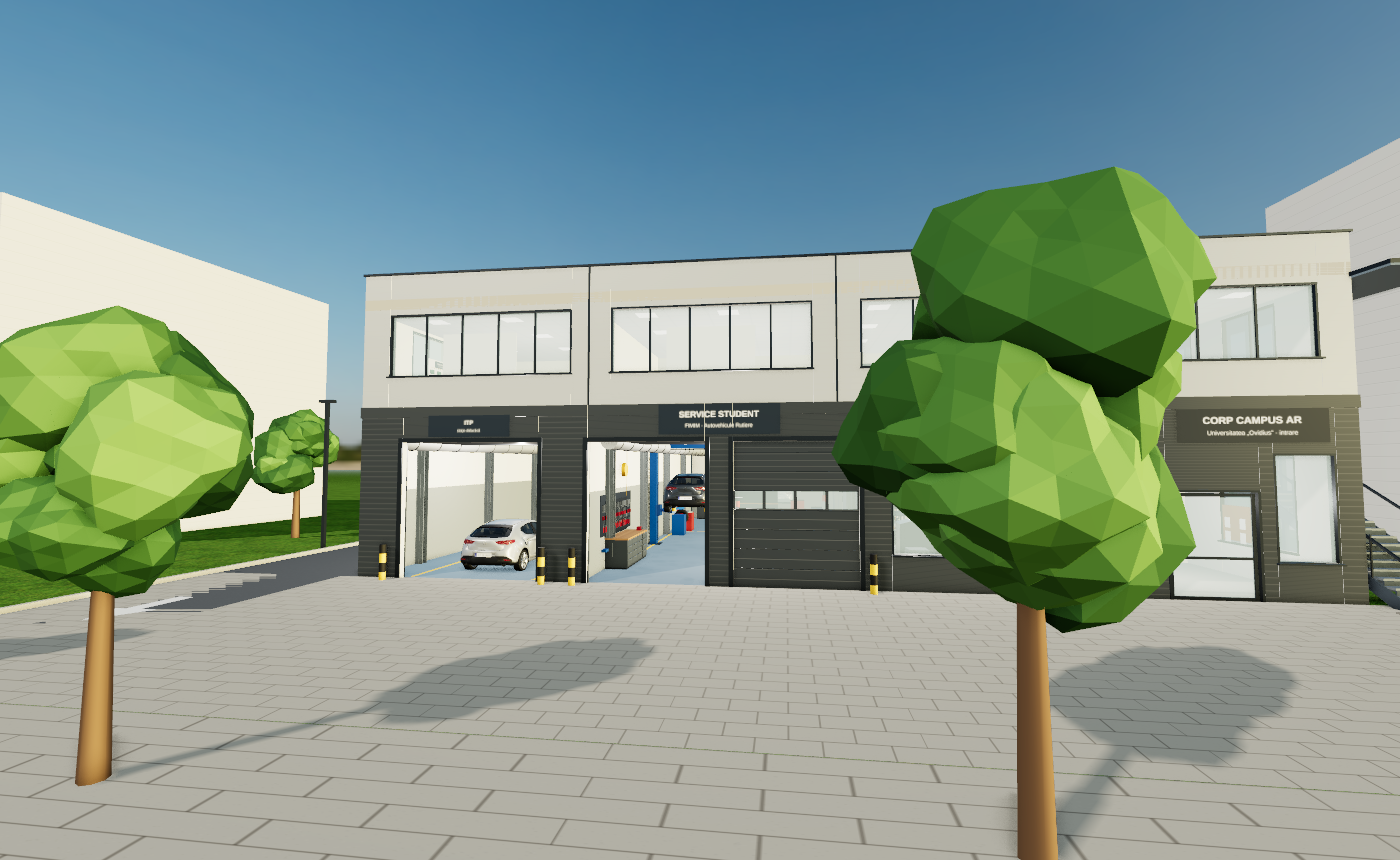
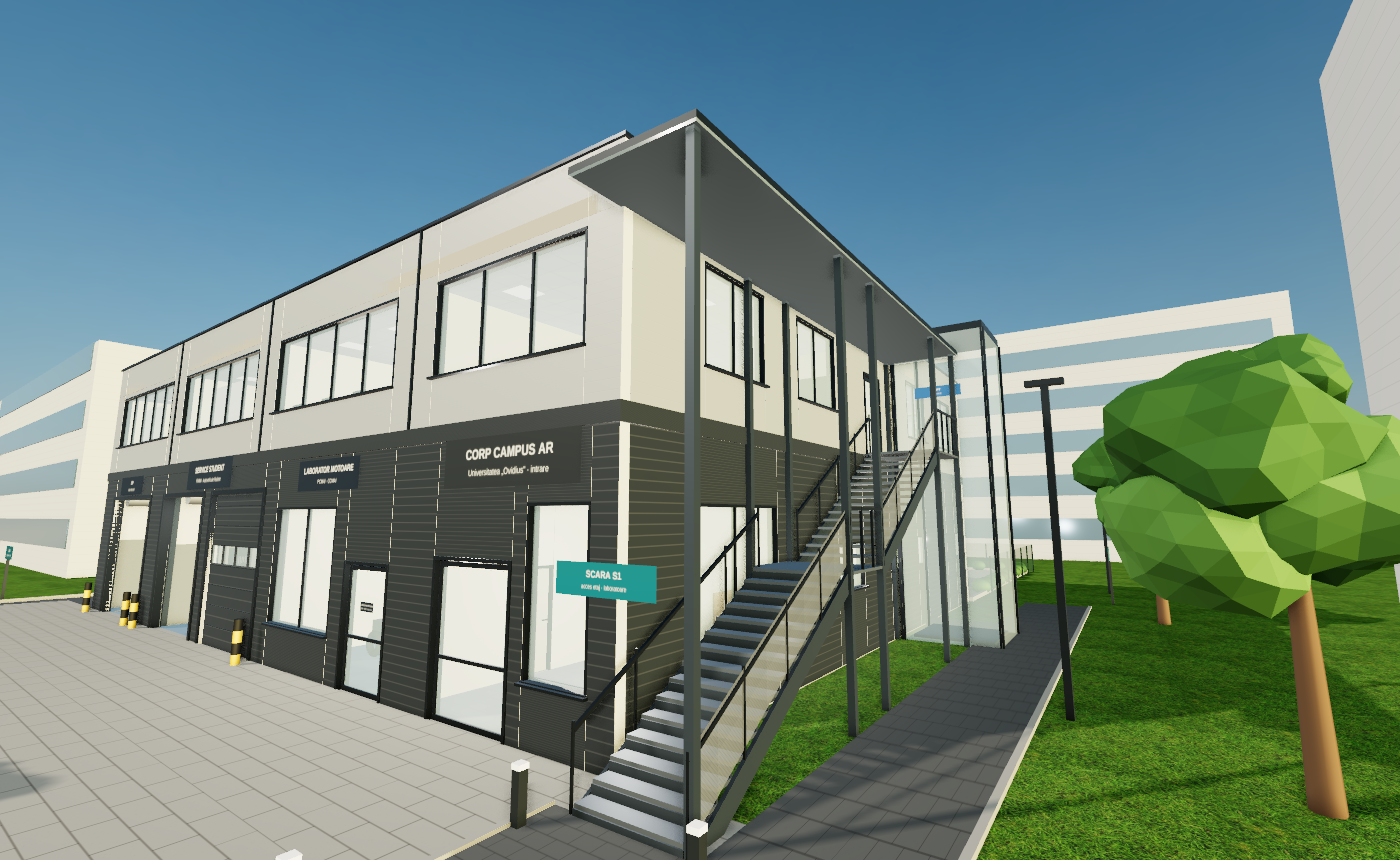
Etapa 3 grafică: Dinamică și exterior după imaginile concept
- E03: punte completă cu roți reale și arcuri coilover, stand pneuri în cușcă de plasă, mașină de încercat amortizoare, raft cu pneuri reale
- scara S1: plasă de protecție pe balustrade
- acoperiș: centrală de tratare a aerului, guri de ventilație

Claude-Session: https://claude.ai/code/session_01TZFbCrNL5Qe3p3aSQB4Bo5

diff --git a/js/equipment.js b/js/equipment.js
@@ -384,42 +384,62 @@ function toolWall(len = 3.0, seed = 1) {
 }
 function laptop(seed = 1) { const g = new THREE.Group(); B(g, 0.34, 0.018, 0.24, C(0x2f3337, { metalness: 0.5 }), 0, 0, 0); const sc = new THREE.Group(); sc.position.set(0, 0.018, -0.12); sc.rotation.x = -0.25; g.add(sc); B(sc, 0.34, 0.22, 0.01, C(0x2f3337, { metalness: 0.5 }), 0, 0, 0); screen(sc, 0.31, 0.19, seed % 2 ? 'diag' : 'code', seed, 0, 0.015, 0.006); return g; }
 // Dinamică – după imaginea concept: punte completă pe platformă (suspensii coilover), cușcă de încercare pneuri, turn de încercare amortizoare
-function halfCarRig() {
-  const g = new THREE.Group();
-  B(g, 2.7, 0.08, 1.7, C(0x5d6a75, { metalness: 0.5 }), 0, 0, 0); for (const z of [-0.6, 0.6]) B(g, 2.5, 0.1, 0.12, C(0x434c55, { metalness: 0.5 }), 0, 0.08, z);
-  B(g, 0.6, 0.25, 0.4, C(0xa3aab0, { metalness: 0.7 }), 0, 0.42, 0);                                // carter diferențial / subcadru
-  for (const z of [-0.25, 0.25]) Cy(g, 0.04, 2.0, MAT.dark, 0, 0.5, z, 'x');
+// roată reală (anvelopă + jantă din aliaj) preluată din modelul 3D al autoturismului; axa roții = axa locală z
+function realWheel(parent, x, y, z, ry = 0, scale = 1) {
+  const g = new THREE.Group(); g.position.set(x, y, z); g.rotation.y = ry; g.scale.setScalar(scale); parent.add(g);
+  CAR_MODEL.then(src => { if (!src) return; const w = src.getObjectByName('wheel_FL'); if (!w) return; const c = w.clone(true); c.position.set(0, 0, 0); c.rotation.set(0, 0, 0); c.traverse(o => { if (o.isMesh) { o.castShadow = true; if (CARMAT[o.material.name]) o.material = CARMAT[o.material.name](); } }); g.add(c); });
+  return g;
+}
+function halfCarRig() {   // punte completă pe platformă de încercări (după imaginea concept „Dinamică”)
+  const g = new THREE.Group(); const fr = C(0x6b747c, { metalness: 0.55, roughness: 0.35 }), dark = C(0x2a2e33, { metalness: 0.5 });
+  B(g, 2.8, 0.06, 1.6, C(0x8a9399, { metalness: 0.5, roughness: 0.4 }), 0, 0, 0);
+  for (const z of [-0.7, 0.7]) B(g, 2.8, 0.12, 0.1, fr, 0, 0.06, z); for (const x of [-1.3, 0, 1.3]) B(g, 0.1, 0.12, 1.5, fr, x, 0.06, 0);
+  B(g, 0.5, 0.22, 0.42, ALU2, 0, 0.36, 0); B(g, 0.9, 0.08, 0.3, dark, 0, 0.3, 0);                   // subcadru + carter
   for (const xs of [-1, 1]) {
-    const t = new THREE.Mesh(new THREE.TorusGeometry(0.25, 0.1, 14, 32), MAT.rubber); t.rotation.y = Math.PI / 2; t.position.set(xs * 1.15, 0.43, 0); t.scale.z = 1.3; g.add(t);
-    Cy(g, 0.21, 0.2, C(0xb9bdc2, { metalness: 0.85, roughness: 0.25 }), xs * 1.15, 0.43, 0, 'x', 24);
-    B(g, 0.35, 0.05, 0.35, C(0x2f3438), xs * 1.15, 0.08, 0);                                         // platformă excitatoare
-    Cy(g, 0.03, 0.55, C(0x1f4fa8), xs * 0.8, 0.75, 0, 'y'); 
-    const sp = new THREE.Mesh(new THREE.TorusGeometry(0.075, 0.012, 6, 16), C(0x1f4fa8)); for (let i = 0; i < 7; i++) { const s2 = sp.clone(); s2.rotation.x = Math.PI / 2; s2.position.set(xs * 0.8, 0.62 + i * 0.05, 0); g.add(s2); }
-    B(g, 0.6, 0.05, 0.08, MAT.dark, xs * 0.55, 0.45, 0.15); B(g, 0.6, 0.05, 0.08, MAT.dark, xs * 0.55, 0.45, -0.15);   // brațe
+    B(g, 0.44, 0.06, 0.44, dark, xs * 1.12, 0.06, 0); Cy(g, 0.06, 0.12, C(0x1f4fa8), xs * 1.12, 0.12, 0);   // platformă excitatoare + actuator
+    realWheel(g, xs * 1.12, 0.33 + 0.18, 0, xs > 0 ? Math.PI / 2 : -Math.PI / 2);
+    Cy(g, 0.06, 0.08, GEARM, xs * 0.98, 0.51, 0, 'x', 18);                                           // butuc / fuzetă
+    tube(g, [xs * 0.95, 0.4, 0.14], [xs * 0.25, 0.36, 0.17], 0.025, dark); tube(g, [xs * 0.95, 0.4, -0.14], [xs * 0.25, 0.36, -0.17], 0.025, dark);   // brațe inferioare
+    tube(g, [xs * 0.95, 0.6, 0], [xs * 0.3, 0.55, 0.12], 0.02, dark);                               // braț superior
+    Cy(g, 0.025, 0.42, C(0x1a1c1f, { metalness: 0.5 }), xs * 0.78, 0.45, 0); Cy(g, 0.012, 0.22, GEARM, xs * 0.78, 0.87, 0);   // amortizor
+    helix(g, 0.06, 0.34, 7, 0.009, C(0x1f4fa8, { metalness: 0.4, roughness: 0.4 }), xs * 0.78, 0.55, 0);   // arc coilover albastru
+    Cy(g, 0.075, 0.02, C(0xb3261e), xs * 0.78, 0.54, 0); Cy(g, 0.075, 0.02, C(0xb3261e), xs * 0.78, 0.9, 0);
+    tube(g, [xs * 0.78, 1.08, 0], [xs * 0.4, 0.62, 0], 0.03, fr);                                   // turn de prindere
   }
-  plate(g, 'Stand suspensie – punte completă', 'excitație verticală · confort · ținută de drum', 0.9, 0, 0.2, 0.86, 0, '#1d2b3a');
+  for (const x of [-0.35, 0.35]) tube(g, [x, 0.62, 0], [x * 2.0, 1.08, 0], 0.03, fr);
+  B(g, 1.7, 0.06, 0.08, fr, 0, 1.08, 0);
+  for (let i = 0; i < 4; i++) tube(g, [-0.2 + i * 0.12, 0.47, 0.18], [-0.6 + i * 0.3, 0.06, 0.75], 0.006, C(0xd32f2f));   // cabluri traductoare
+  plate(g, 'Stand suspensie – punte completă', 'excitație verticală · confort · ținută de drum', 0.9, 0, 0.2, 0.81, 0, '#1d2b3a');
   return g;
 }
-function tireCage() {
-  const g = new THREE.Group(); const blue = C(0x1f3f78, { metalness: 0.3 });
+function tireCage() {   // stand de încercare a pneurilor: dulap albastru pe roți, cușcă din plasă, roată reală
+  const g = new THREE.Group(); const blue = C(0x1f3f78, { metalness: 0.3, roughness: 0.45 }), fr = C(0xc9cdd1, { metalness: 0.75, roughness: 0.3 });
   B(g, 1.2, 0.85, 0.9, blue, 0, 0.12, 0); for (const [x, z] of [[-0.55, -0.4], [0.55, -0.4], [-0.55, 0.4], [0.55, 0.4]]) Cy(g, 0.05, 0.04, MAT.rubber, x, 0.02, z, 'x', 12);
-  B(g, 0.08, 0.08, 0.03, MAT.yellow, 0.4, 0.8, 0.46); Cy(g, 0.03, 0.03, MAT.red, 0.4, 0.84, 0.48, 'z', 16);
-  B(g, 1.25, 0.04, 0.95, MAT.steel, 0, 0.97, 0);
-  const t = new THREE.Mesh(new THREE.TorusGeometry(0.32, 0.13, 16, 36), MAT.rubber); t.rotation.y = Math.PI / 2; t.position.set(-0.15, 1.45, 0); t.scale.z = 1.4; g.add(t);
-  Cy(g, 0.26, 0.24, C(0x9ca3a8, { metalness: 0.8 }), -0.15, 1.45, 0, 'x', 24);
-  const mesh = new THREE.MeshStandardMaterial({ map: T.pegboard([3, 3]), color: 0xd0d4d8, metalness: 0.6, transparent: true, opacity: 0.55, side: THREE.DoubleSide });
-  for (const [w, h, d, x, y, z] of [[1.2, 0.9, 0.01, 0, 1.01, 0.45], [1.2, 0.9, 0.01, 0, 1.01, -0.45], [0.01, 0.9, 0.9, 0.6, 1.01, 0], [0.01, 0.9, 0.9, -0.6, 1.01, 0], [1.2, 0.01, 0.9, 0, 1.9, 0]]) B(g, w, h, d, mesh, x, y, z);
-  for (const [x, z] of [[-0.6, -0.45], [0.6, -0.45], [-0.6, 0.45], [0.6, 0.45]]) B(g, 0.03, 0.92, 0.03, MAT.steel, x, 1.0, z);
-  plate(g, 'Stand încercare pneuri', 'rigiditate · rezistență la rulare', 0.6, 0, 0.55, 0.456, 0, '#1f3f78');
+  for (const [w, h, x, y] of [[0.4, 0.5, -0.3, 0.3], [0.4, 0.5, 0.25, 0.3]]) B(g, w, h, 0.01, C(0x2a4f8f, { metalness: 0.3 }), x, y, 0.455);
+  B(g, 0.08, 0.08, 0.03, MAT.yellow, 0.45, 0.82, 0.46); Cy(g, 0.03, 0.03, MAT.red, 0.45, 0.86, 0.48, 'z', 16);
+  B(g, 1.25, 0.04, 0.95, fr, 0, 0.97, 0);
+  realWheel(g, -0.1, 1.33, 0, Math.PI / 2, 1.0);
+  Cy(g, 0.12, 0.35, GEARM, -0.1, 1.07, 0, 'x', 24);                                                   // tambur de încărcare
+  const meshM = new THREE.MeshStandardMaterial({ map: T.perfAlu([6, 6]), metalness: 0.5, roughness: 0.4, transparent: true, opacity: 0.45, side: THREE.DoubleSide, depthWrite: false });
+  for (const [w, h, d, x, y, z] of [[1.2, 0.95, 0.01, 0, 1.01, 0.45], [1.2, 0.95, 0.01, 0, 1.01, -0.45], [0.01, 0.95, 0.9, 0.6, 1.01, 0], [0.01, 0.95, 0.9, -0.6, 1.01, 0], [1.2, 0.01, 0.9, 0, 1.96, 0]]) B(g, w, h, d, meshM, x, y, z);
+  for (const [x, z] of [[-0.6, -0.45], [0.6, -0.45], [-0.6, 0.45], [0.6, 0.45]]) B(g, 0.035, 0.97, 0.035, fr, x, 1.0, z);
+  for (const y of [1.48, 1.96]) for (const z of [-0.45, 0.45]) B(g, 1.2, 0.03, 0.03, fr, 0, y, z);
+  plate(g, 'Stand încercare pneuri', 'rigiditate · rezistență la rulare', 0.6, 0, 0.62, 0.462, 0, '#1f3f78');
   return g;
 }
-function shockTower() {
-  const g = new THREE.Group(); const fr = C(0xb4bbc1, { metalness: 0.7, roughness: 0.3 });
-  B(g, 0.9, 0.08, 0.7, C(0x434c55, { metalness: 0.5 }), 0, 0, 0);
-  for (const x of [-0.38, 0.38]) B(g, 0.06, 1.9, 0.06, fr, x, 0.08, 0); B(g, 0.82, 0.08, 0.1, fr, 0, 1.95, 0); B(g, 0.76, 0.06, 0.12, fr, 0, 1.25, 0);
-  Cy(g, 0.03, 0.55, MAT.dark, 0, 0.6, 0); const sp = new THREE.Mesh(new THREE.TorusGeometry(0.07, 0.013, 6, 16), MAT.red); for (let i = 0; i < 8; i++) { const s2 = sp.clone(); s2.rotation.x = Math.PI / 2; s2.position.y = 0.7 + i * 0.05; g.add(s2); }
-  Cy(g, 0.08, 0.35, MAT.blue, 0, 0.2, 0); B(g, 0.3, 0.22, 0.2, C(0xe6e9ea), 0.6, 0.85, 0); screen(g, 0.2, 0.12, 'scope', 61, 0.6, 0.95, 0.105);
-  plate(g, 'Stand încercare amortizoare', 'diagramă forță–deplasare', 0.6, 0, 0.3, 0.36, 0, '#1d2b3a');
+function shockTower() {   // mașină de încercat amortizoare (turn cu traversă, actuator, celulă de forță)
+  const g = new THREE.Group(); const fr = C(0xc9cdd1, { metalness: 0.75, roughness: 0.3 });
+  B(g, 0.9, 0.1, 0.7, C(0x434c55, { metalness: 0.5 }), 0, 0, 0);
+  for (const x of [-0.36, 0.36]) Cy(g, 0.035, 1.9, fr, x, 0.1, 0, 'y', 16);
+  B(g, 0.86, 0.12, 0.16, C(0x1f3f78, { metalness: 0.4 }), 0, 1.95, 0); B(g, 0.8, 0.08, 0.14, fr, 0, 1.3, 0);
+  Cy(g, 0.06, 0.08, C(0x9aa0a6, { metalness: 0.8 }), 0, 1.22, 0);                                      // celulă de forță
+  Cy(g, 0.022, 0.5, C(0x1a1c1f, { metalness: 0.5 }), 0, 0.5, 0); Cy(g, 0.011, 0.25, GEARM, 0, 0.98, 0);
+  helix(g, 0.065, 0.38, 8, 0.01, C(0xc0392b, { roughness: 0.4, metalness: 0.3 }), 0, 0.62, 0);        // arc roșu
+  Cy(g, 0.08, 0.02, MAT.dark, 0, 0.6, 0); Cy(g, 0.08, 0.02, MAT.dark, 0, 1.0, 0);
+  Cy(g, 0.08, 0.38, C(0x1f4fa8, { metalness: 0.4 }), 0, 0.1, 0);                                       // actuator hidraulic
+  B(g, 0.32, 0.24, 0.22, C(0xe6e9ea), 0.68, 0.8, 0); screen(g, 0.2, 0.12, 'scope', 61, 0.68, 0.9, 0.115);
+  tube(g, [0.52, 0.9, 0], [0.05, 1.2, 0], 0.006, C(0x111111));
+  plate(g, 'Stand încercare amortizoare', 'diagramă forță–deplasare', 0.6, 0, 0.35, 0.36, 0, '#1d2b3a');
   return g;
 }
 function electricalPanel() { const g = new THREE.Group(); B(g, 0.8, 1.8, 0.3, C(0xd5d8da, { metalness: 0.3 }), 0, 0.1, 0); B(g, 0.01, 0.4, 0.02, MAT.dark, 0.32, 1.0, 0.16); plate(g, 'TABLOU ELECTRIC GENERAL', '⚡ 400/230 V', 0.6, 0, 1.6, 0.155, 0, '#d32f2f'); return g; }
@@ -451,7 +471,7 @@ function displayTable(items, title) {
 function stool() { const g = new THREE.Group(); Cy(g, 0.17, 0.04, MAT.wood, 0, 0.62, 0, 'y', 24); for (let i = 0; i < 4; i++) { const a = i / 4 * Math.PI * 2 + 0.78; tube(g, [Math.cos(a) * 0.13, 0.62, Math.sin(a) * 0.13], [Math.cos(a) * 0.2, 0, Math.sin(a) * 0.2], 0.014, MAT.dark); } Cy(g, 0.16, 0.015, MAT.dark, 0, 0.25, 0, 'y', 20); for (const [x, z] of [[0.2, 0], [-0.2, 0], [0, 0.2], [0, -0.2]]) Cy(g, 0.025, 0.02, MAT.rubber, x, 0.0, z); return g; }
 function steeringRack() { const g = new THREE.Group(); Cy(g, 0.035, 1.1, MAT.steel, 0, 0.08, 0, 'x'); Cy(g, 0.05, 0.25, MAT.dark, -0.2, 0.08, 0, 'x'); Cy(g, 0.015, 0.3, MAT.steel, -0.2, 0.08, 0, 'y'); return g; }
 function wheelScales() { const g = new THREE.Group(); for (const [x, z] of [[-1.25, -0.75], [1.25, -0.75], [-1.25, 0.75], [1.25, 0.75]]) { B(g, 0.5, 0.06, 0.5, C(0x2f3b45, { metalness: 0.5 }), x, 0, z); B(g, 0.46, 0.006, 0.46, MAT.yellow, x, 0.06, z); } B(g, 0.3, 0.2, 0.08, C(0xeeeeee), 0, 0, -1.3); plate(g, 'Cântare roți', 'centru de greutate · sarcini pe punți', 0.6, 0, 0.5, -1.25, 0, '#1d2b3a'); return g; }
-function tireRack() { const g = new THREE.Group(); for (const x of [-0.7, 0.7]) B(g, 0.05, 1.3, 0.5, MAT.grey, x, 0, 0); for (let i = 0; i < 5; i++) { const t = new THREE.Mesh(new THREE.TorusGeometry(0.28, 0.1, 10, 24), MAT.rubber); t.position.set(-0.5 + i * 0.25, 0.4, 0); t.rotation.y = Math.PI / 2 - 0.2; g.add(t); } B(g, 1.4, 0.04, 0.5, MAT.grey, 0, 0.0, 0); return g; }
+function tireRack() { const g = new THREE.Group(); const fr = C(0x6b747c, { metalness: 0.55 }); for (const x of [-0.75, 0.75]) B(g, 0.05, 1.6, 0.5, fr, x, 0, 0); for (const y of [0.06, 0.76]) B(g, 1.5, 0.04, 0.5, fr, 0, y, 0); for (const y of [0.42, 1.12]) for (const x of [-0.45, 0.0, 0.45]) realWheel(g, x, y, 0, Math.PI / 2 - 0.3, 1); return g; }
 function brakeHydStand() {
   const g = new THREE.Group(); B(g, 1.6, 0.06, 0.6, MAT.steel, 0, 0.9, 0); B(g, 1.6, 0.9, 0.6, C(0x34495e, { metalness: 0.3 }), 0, 0, 0);
   B(g, 0.05, 0.4, 0.06, MAT.dark, -0.7, 0.95, 0.2); Cy(g, 0.05, 0.3, MAT.alu, -0.45, 1.1, 0.0, 'x'); Cy(g, 0.12, 0.1, MAT.dark, -0.15, 1.1, 0.0, 'x');

diff --git a/js/building.js b/js/building.js
@@ -313,6 +313,10 @@ export function buildBuilding(scene) {
   for (let i = 0; i < 7; i++) for (let j = 0; j < 4; j++) {
     const g = new THREE.Mesh(new THREE.BoxGeometry(2.0, 0.04, 3.4), pv); g.position.set(2.2 + i * 3.1, ROOF + 0.45, -(2.6 + j * 4.2)); g.rotation.x = 0.18; g.castShadow = true; root.add(g);
   }
+  // echipamente pe acoperiș (vizibile din exterior): centrală de tratare a aerului, guri de ventilație, coș
+  const roofEq = new THREE.MeshStandardMaterial({ color: 0xc9ced2, metalness: 0.6, roughness: 0.4 });
+  boxXY(9.0, 14.5, 13.0, 16.5, ROOF, ROOF + 1.3, roofEq); for (const x of [9.6, 10.6, 11.6, 12.4]) { const f = new THREE.Mesh(new THREE.CylinderGeometry(0.35, 0.35, 0.05, 24), new THREE.MeshStandardMaterial({ color: 0x3a3f44 })); f.position.set(x, ROOF + 1.33, -15.5); root.add(f); }
+  for (const [x, y] of [[3, 3], [17, 4], [22, 12], [6, 15]]) { const v = new THREE.Mesh(new THREE.CylinderGeometry(0.18, 0.18, 0.7, 16), roofEq); v.position.set(x, ROOF + 0.35, -y); v.castShadow = true; root.add(v); const c = new THREE.Mesh(new THREE.ConeGeometry(0.28, 0.2, 16), roofEq); c.position.set(x, ROOF + 0.8, -y); root.add(c); }
   // bandă dintre niveluri pe fațade
   for (const [x0, y0, x1, y1] of [[-0.03, -0.03, BW + 0.03, 0.03], [-0.03, BD - 0.03, BW + 0.03, BD + 0.03]]) boxXY(x0, y0, x1, y1, 4.5, 4.8, m.facadeAnth, false);
   for (const [x0, y0, x1, y1] of [[-0.03, 0, 0.03, BD], [BW - 0.03, 0, BW + 0.03, BD]]) boxXY(x0, y0, x1, y1, 4.5, 4.8, m.facadeAnth, false);
@@ -346,6 +350,15 @@ export function buildBuilding(scene) {
     const st = new THREE.Mesh(new THREE.BoxGeometry(0.05, 0.28, run), m.stair); st.position.set(x, h0 + 1.05, -(y0 + 2.1)); st.rotation.x = ang; st.position.y = h0 + 1.2 - 0.14; add(st);
     const hr = new THREE.Mesh(new THREE.BoxGeometry(0.05, 0.05, run), m.alu); hr.position.set(x + (x < 26 ? 0 : 0), h0 + 1.2 + 0.9, -(y0 + 2.1)); hr.rotation.x = ang; add(hr);
     for (let i = 0; i <= 4; i++) { const t = i / 4; boxXY(x - 0.015, y0 + 4.2 * t - 0.015, x + 0.015, y0 + 4.2 * t + 0.015, h0 + 2.4 * t, h0 + 2.4 * t + 1.0, m.alu, false); }
+  }
+  // plasă de protecție pe balustrade (ca în imaginea concept: balustradă metalică cu plasă)
+  const railMesh = new THREE.MeshStandardMaterial({ map: T.perfAlu([8, 2]), metalness: 0.5, roughness: 0.4, transparent: true, opacity: 0.5, side: THREE.DoubleSide, depthWrite: false });
+  for (const [y0, h0] of [[-0.9, 0], [4.8, 2.4]]) {
+    const geo = new THREE.PlaneGeometry(4.2, 0.85); const pos = geo.attributes.position;
+    for (let i = 0; i < pos.count; i++) pos.setY(i, pos.getY(i) + pos.getX(i) / 4.2 * 2.4);       // panou înclinat după rampă
+    geo.computeVertexNormals();
+    const pm = new THREE.Mesh(geo, railMesh); pm.position.set(STAIR.lane1 + 0.045, h0 + 1.2 + 0.55, -(y0 + 2.1)); pm.rotation.y = Math.PI / 2;
+    add(pm, false, false);
   }
   for (const [y0, y1, h] of [[3.3, 4.8, 2.4], [9.0, 11.1, 4.8]]) { boxXY(26.82, y0, 26.86, y1, h + 0.95, h + 1.0, m.alu, false); for (let y = y0; y <= y1; y += 0.5) boxXY(26.82, y, 26.86, y + 0.03, h, h + 1.0, m.alu, false); }
   boxXY(24.95, -1.0, 26.95, 11.2, 7.55, 7.65, new THREE.MeshStandardMaterial({ color: 0x2b333b, roughness: 0.5, metalness: 0.5 }));   // acoperire
